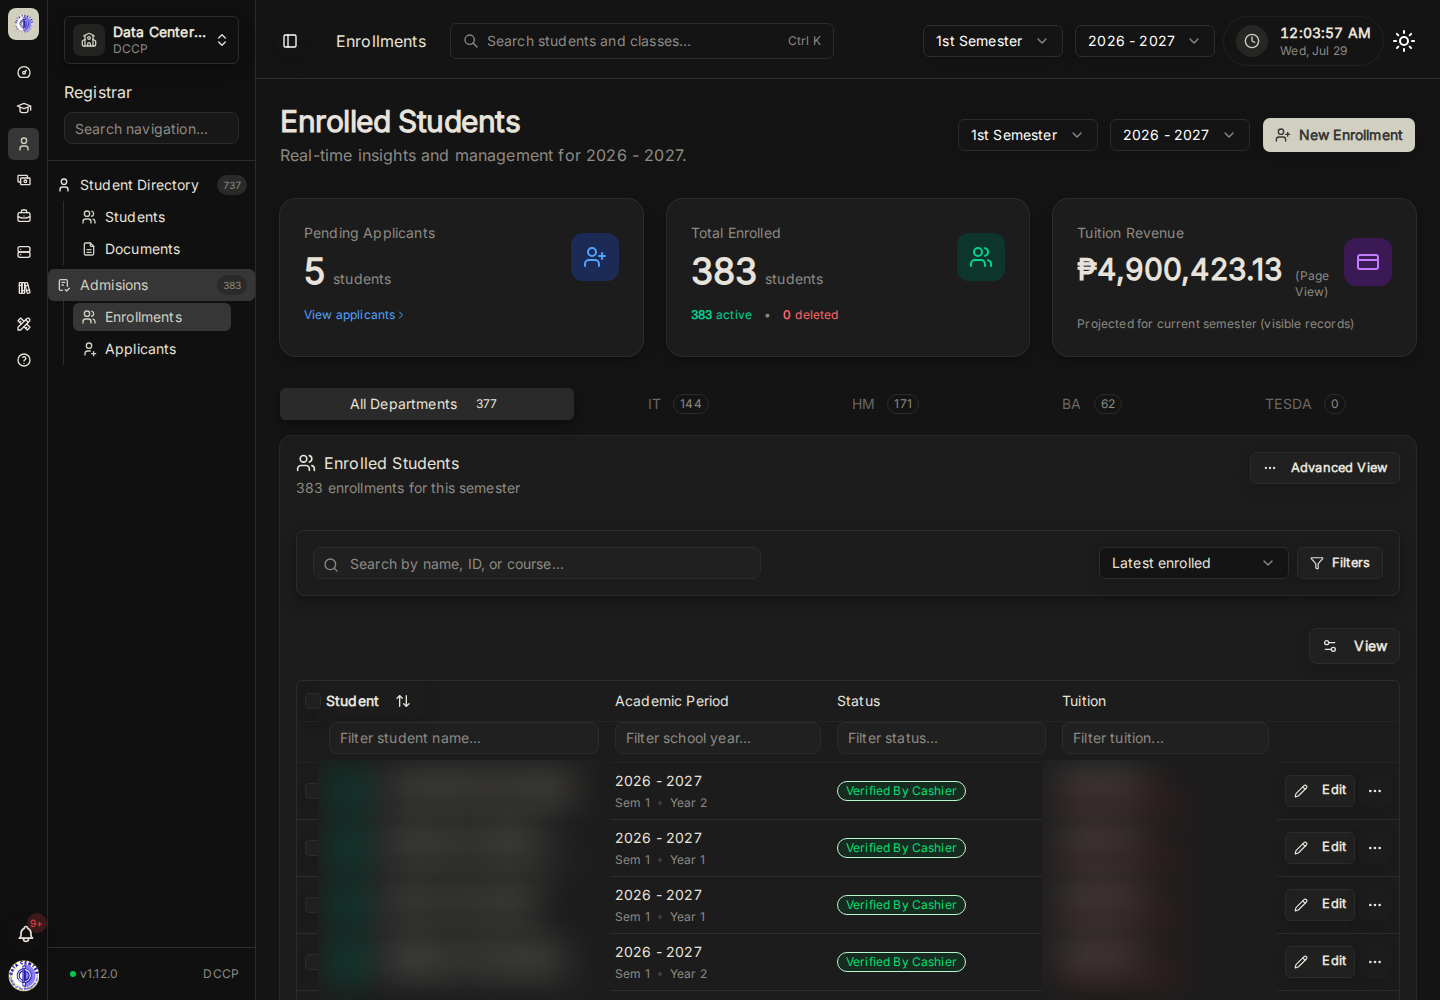
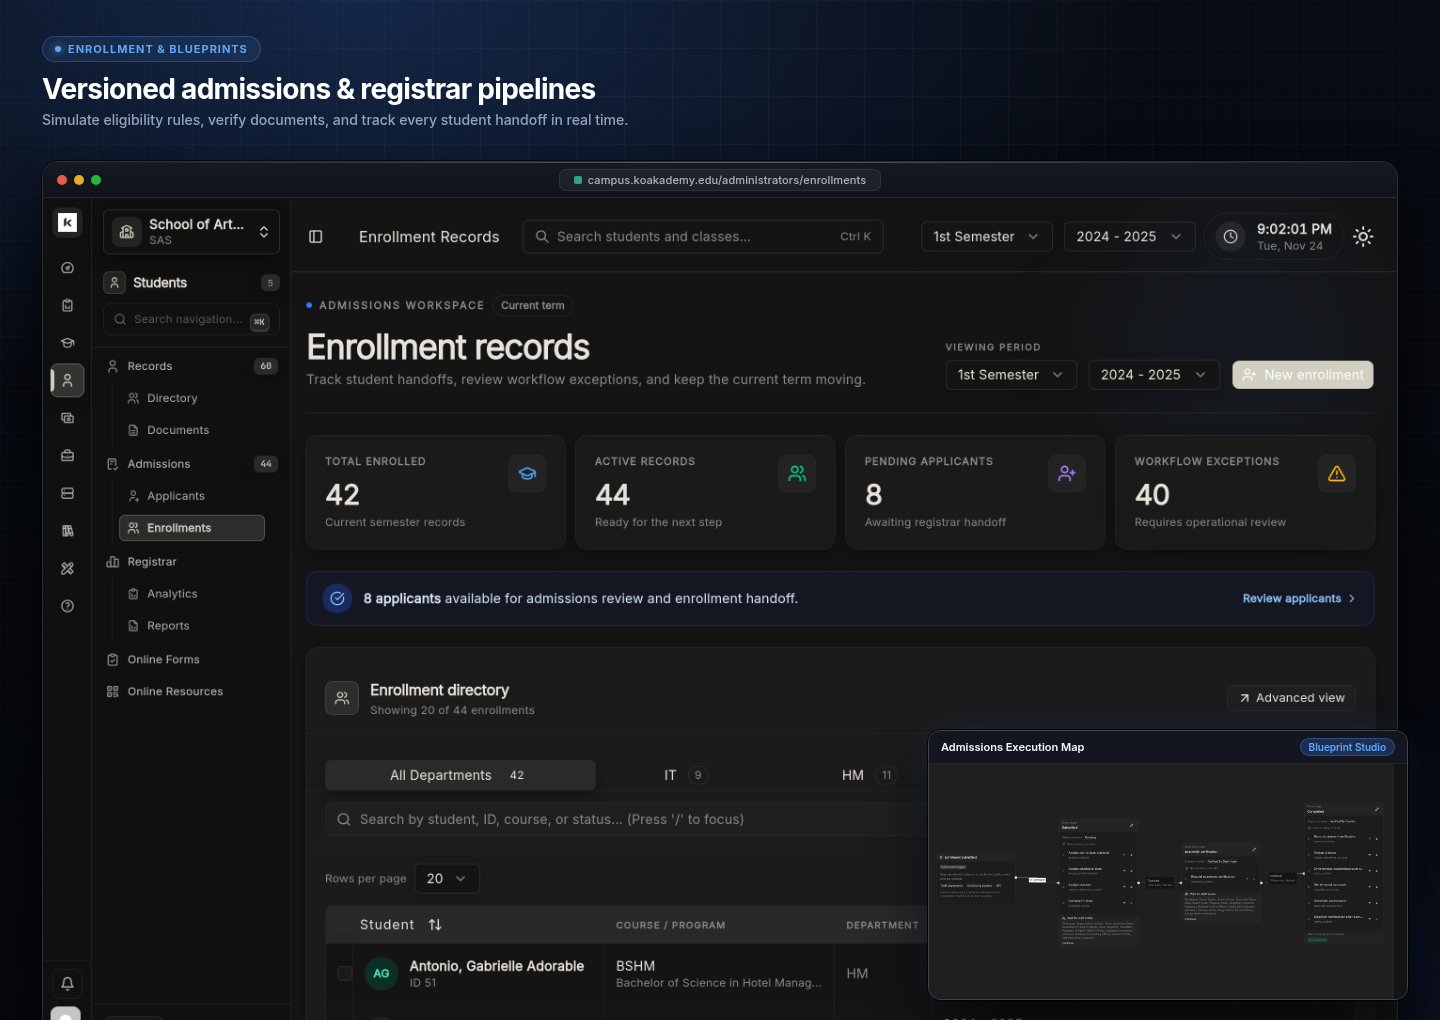
docs(readme): refresh overview screenshots with SaaS showcase visuals
Replace legacy screenshot captures with framed SaaS showcase visuals built from live seeded views, and expand the README overview grid to include the Faculty and Student portals.

diff --git a/README.md b/README.md
@@ -49,12 +49,16 @@ Features vary in maturity. Treat this as a **codebase to evaluate and improve**,
 
 <table>
 <tr>
-<td width="50%"><img src="docs/src/assets/screenshots/enrollments.png" alt="Enrollment management screen"><br><sub><b>Enrollment</b> — applicants, verification, and registrar workflows</sub></td>
-<td width="50%"><img src="docs/src/assets/screenshots/classes.png" alt="Class management screen"><br><sub><b>Academics</b> — classes, curricula, and schedules</sub></td>
+<td width="50%"><img src="docs/src/assets/screenshots/enrollments.png" alt="Enrollment management and blueprint studio"><br><sub><b>Enrollment</b> — applicants, verification, and versioned admission blueprints</sub></td>
+<td width="50%"><img src="docs/src/assets/screenshots/classes.png" alt="Class management and weekly schedule planner"><br><sub><b>Academics</b> — class offerings, curricula, and conflict-aware schedules</sub></td>
 </tr>
 <tr>
-<td width="50%"><img src="docs/src/assets/screenshots/finance.png" alt="Finance dashboard"><br><sub><b>Finance</b> — assessments, payments, and records</sub></td>
-<td width="50%"><img src="docs/src/assets/screenshots/library.png" alt="Library catalogue"><br><sub><b>Library</b> — cataloguing and digital reading workflows</sub></td>
+<td width="50%"><img src="docs/src/assets/screenshots/finance.png" alt="Finance desk and collection analytics"><br><sub><b>Finance</b> — tuition assessment, cashier queues, and collection tracking</sub></td>
+<td width="50%"><img src="docs/src/assets/screenshots/library.png" alt="Digital library catalogue"><br><sub><b>Library</b> — physical circulation, cataloguing, and online eBooks</sub></td>
+</tr>
+<tr>
+<td width="50%"><img src="docs/src/assets/screenshots/faculty-portal.png" alt="Faculty portal dashboard"><br><sub><b>Faculty Portal</b> — daily classes, attendance, rosters, and grading</sub></td>
+<td width="50%"><img src="docs/src/assets/screenshots/student-portal.png" alt="Student portal dashboard"><br><sub><b>Student Portal</b> — schedules, academic progress, tuition, and digital ID</sub></td>
 </tr>
 </table>
 
